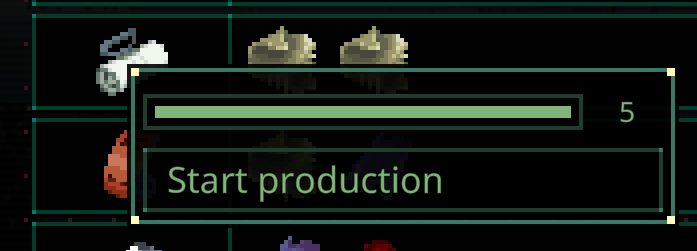
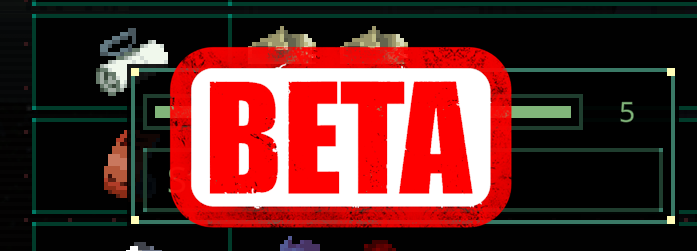
Compatible with the 0.8.6 opt in beta

diff --git a/src/MagnumSelectItemToProduceWindow_ReceiptPanelOnStartProduction_Patch.cs b/src/MagnumSelectItemToProduceWindow_ReceiptPanelOnStartProduction_Patch.cs
@@ -1,0 +1,40 @@
+using HarmonyLib;
+using MGSC;
+using System;
+using System.Collections.Generic;
+using System.Linq;
+using System.Reflection;
+using System.Reflection.Emit;
+using System.Runtime.CompilerServices;
+using System.Text;
+using System.Threading.Tasks;
+using UnityEngine;
+using static Rewired.Demos.CustomPlatform.MyPlatformControllerExtension;
+
+namespace QM_ProductionTweaks
+{
+
+    /// <summary>
+    /// Change the initial value to be the maximum that can be produced instead of 1.
+    /// </summary>
+    [HarmonyPatch("MGSC.MagnumSelectItemToProduceWindow+<>c__DisplayClass30_0", "<ReceiptPanelOnStartProduction>b__0")]
+    internal static class MagnumSelectItemToProduceWindow_ReceiptPanelOnStartProduction_Patch
+    {
+
+        public static bool Prefix(object __instance, MGSC.CommonContextMenu v, int ___maxCraft)
+        {
+            //------- The goal is to change the slider's value to default to the max value instead of 1.
+            //  ...
+            // 	UI.Chain<CommonContextMenu>().Invoke(delegate(CommonContextMenu v)
+            // 	{
+            // 		v.AddSliderCommand(1, 1, maxCraft);
+            // 	}).Invoke(delegate(CommonContextMenu v)
+            // 	{
+            //  ...
+
+            v.AddSliderCommand(___maxCraft, 1, ___maxCraft);
+            return false;
+        }
+    }
+
+}

diff --git a/src/MagnumSelectItemToProduceWindow_Hide_Patch.cs b/src/MagnumSelectItemToProduceWindow_Hide_Patch.cs
@@ -8,7 +8,7 @@ using System.Threading.Tasks;
 
 namespace QM_ProductionTweaks
 {
-    [HarmonyPatch(typeof(MagnumSelectItemToProduceWindow), nameof(MagnumSelectItemToProduceWindow.Hide))]
+    [HarmonyPatch(typeof(MagnumSelectItemToProduceWindow), nameof(MagnumSelectItemToProduceWindow.ContextMenuOnHide))]
     internal static class MagnumSelectItemToProduceWindow_Hide_Patch
     {
         public static void Postfix(MagnumSelectItemToProduceWindow __instance)

diff --git a/src/Properties/AssemblyInfo.cs b/src/Properties/AssemblyInfo.cs
@@ -32,5 +32,4 @@ using System.Runtime.InteropServices;
 // You can specify all the values or you can default the Build and Revision Numbers
 // by using the '*' as shown below:
 // [assembly: AssemblyVersion("1.0.*")]
-[assembly: AssemblyVersion("1.0.0.0")]
-[assembly: AssemblyFileVersion("1.0.0.0")]
+[assembly: AssemblyVersion("1.1.0")]

diff --git a/README.md b/README.md
@@ -1,6 +1,19 @@
 # Quasimorph Production Tweaks
 ![thumbnail icon](media/thumbnail.png)
 
+
+# Important - This version of the mod is only for the opt in beta version of the game!
+
+This is a temporary version that supports the 0.8.6 beta, and not the current game's version.
+For the non beta version of the game, use the mod of the same name without the BETA suffix.
+
+The non beta version *must* be uninstalled.  
+When the 0.8.6 becomes the main version, this mod will be deleted.
+Note that the beta is expected to change many times before release.
+As such, this mod may break on each beta release.
+
+# Docs
+
 Remembers the location of the production item selection window.  For example, when selecting sorbent, returning to the screen keeps the view at the sorbent location.
 
 Defaults to the max amount for the production count instead of one.  For example, 60 rounds.
@@ -11,3 +24,8 @@ Thanks!
 
 # Source Code
 Source code is available on GitHub at https://github.com/NBKRedSpy/QM_ProductionTweaks
+
+# Change Log
+
+## 1.1.0
+Compatible with the 0.8.6 opt in beta
